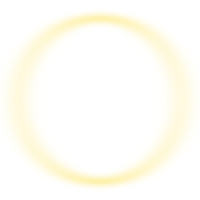
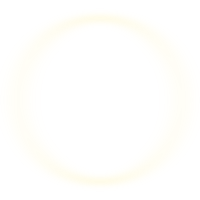
update assets

Changed region(s): [[0.09, 0.63, 0.9, 0.93], [0.09, 0.06, 0.9, 0.36]]

diff --git a/core/src/com/tinybrownmonkey/mamapara/scenes/GameScene.java b/core/src/com/tinybrownmonkey/mamapara/scenes/GameScene.java
@@ -9,11 +9,14 @@ import com.badlogic.gdx.graphics.GL20;
 import com.badlogic.gdx.graphics.OrthographicCamera;
 import com.badlogic.gdx.graphics.Texture;
 import com.badlogic.gdx.graphics.g2d.BitmapFont;
+import com.badlogic.gdx.graphics.g2d.GlyphLayout;
 import com.badlogic.gdx.graphics.g2d.Sprite;
 import com.badlogic.gdx.graphics.g2d.SpriteBatch;
 import com.badlogic.gdx.graphics.g2d.freetype.FreeTypeFontGenerator;
 import com.badlogic.gdx.graphics.glutils.ShapeRenderer;
 import com.badlogic.gdx.math.MathUtils;
+import com.badlogic.gdx.scenes.scene2d.ui.Skin;
+import com.badlogic.gdx.scenes.scene2d.ui.TextButton;
 import com.badlogic.gdx.utils.Align;
 import com.badlogic.gdx.utils.Array;
 import com.badlogic.gdx.utils.viewport.StretchViewport;
@@ -37,6 +40,7 @@ import com.tinybrownmonkey.mamapara.helper.Util;
 
 import java.util.ArrayList;
 import java.util.List;
+import java.util.Random;
 import java.util.Set;
 
 
@@ -68,6 +72,7 @@ public class GameScene implements Screen {
     private List<TimedText> timedTexts;
 
     private static boolean moving = true;
+    private static boolean collission = false;
 
     //scores
     private Scores score;
@@ -153,12 +158,13 @@ public class GameScene implements Screen {
         logo = new Sprite(TextureManager.get("logo.png"));
         float logoX = (GameInfo.WIDTH - logo.getWidth()) / 2;
         logo.setPosition(logoX, logo.getY());
+        float newY = GameInfo.HEIGHT / 2 - (GameInfo.HEIGHT / 11);
         playBttn = new Sprite(TextureManager.get("button_play.png"));
         playBttn.setX((GameInfo.WIDTH - playBttn.getWidth()) / 3);
-        playBttn.setY(GameInfo.HEIGHT / 2 - (GameInfo.HEIGHT / 7));
+        playBttn.setY(newY);
         hsBttn = new Sprite(TextureManager.get("button_highscore.png"));
         hsBttn.setX((GameInfo.WIDTH - playBttn.getWidth()) * 2 / 3);
-        hsBttn.setY(GameInfo.HEIGHT / 2 - (GameInfo.HEIGHT / 7));
+        hsBttn.setY(newY);
     }
 
     @Override
@@ -184,6 +190,7 @@ public class GameScene implements Screen {
 
     @Override
     public void render(float delta) {
+
         mainCamera.update();
         updateComponents(delta);
 
@@ -232,12 +239,12 @@ public class GameScene implements Screen {
                 break;
             case HIGH_SCORE:
                 drawMenu(batch);
-                scoreFont.draw(batch, score.getHighScore() + " m", GameInfo.WIDTH / 2, GameInfo.HEIGHT * 4 / 9,
-                        200, Align.center, false);
+                String highScoreText = score.getHighScore() + " m";
+                scoreFont.draw(batch, highScoreText, GameInfo.WIDTH / 2 - 50, GameInfo.HEIGHT / 2);
                 break;
             case GAME_END:
                 drawGame(batch);
-                scoreFont.draw(batch, "GAME OVER", GameInfo.WIDTH / 2 - 100, GameInfo.HEIGHT  /2 );
+                scoreFont.draw(batch, "GAME OVER", GameInfo.WIDTH / 2 - 50, GameInfo.HEIGHT  /2 );
                 break;
             default:
         }
@@ -315,6 +322,7 @@ public class GameScene implements Screen {
             timedTexts.add(tt);
             score.addMoney(money);
         }
+        jeep.getGrabber().update(delta);
         if(jeep.getX() < jeepLoc)
         {
             //jeep.setX(jeep.getX() + (groundSpeed * delta));
@@ -322,12 +330,13 @@ public class GameScene implements Screen {
         }
         else {
             moveBackgrounds(delta);
-            //jeep.getGrabber().setGrabSpeed(grabberSpeed);
-            movePersons(delta);
+            boolean colPerson = movePersons(delta);
             generatePerson(delta);
             //cars
-            moveCars(delta);
+            boolean colCar = moveCars(delta);
             generateCar(delta);
+
+            collission = colPerson || colCar;
         }
         List<TimedText> removable = new ArrayList<TimedText>();
         for(TimedText tt: timedTexts){
@@ -364,7 +373,8 @@ public class GameScene implements Screen {
         }
     }
 
-    private void movePersons(float delta) {
+    private boolean movePersons(float delta) {
+        boolean retVal = false;
         for(MovingObject movingObject: persons){
             if(!jeep.isPassenger(movingObject)) {
                 if (movingObject.getCountdownTime() > 0 && !jeep.isFull() && jeep.grab(movingObject)) {
@@ -383,14 +393,17 @@ public class GameScene implements Screen {
                 movingObject.setSpeedY(bumpY);
                 movingObject.setRotation(bumpRotation);
                 musicManager.playSound(MusicManager.SoundState.HIT_PERSON);
+                retVal = true;
             }
             if (!gameData.timeoutToGameOverBool && collisionOccured) {
                 gameData.timeoutToGameOverBool = true;
             }
         }
+        return retVal;
     }
 
-    private void moveCars(float delta) {
+    private boolean moveCars(float delta) {
+        boolean retVal = false;
         boolean collisionOccured;
         for(MovingObject car:cars)
         {
@@ -400,6 +413,7 @@ public class GameScene implements Screen {
                 car.setSpeedY(carBumpY);
                 car.setRotation(carBumpRotation);
                 musicManager.playSound(MusicManager.SoundState.HIT_CAR);
+                retVal = true;
             }
             if (!gameData.timeoutToGameOverBool && collisionOccured) {
                 gameData.timeoutToGameOverBool = true;
@@ -407,6 +421,7 @@ public class GameScene implements Screen {
             gameData.groundMover.move(car, delta);
 
         }
+        return retVal;
     }
 
     private void removeOffscreenMovingObjects() {
@@ -460,6 +475,16 @@ public class GameScene implements Screen {
         moneyFont.draw(batch, "$ " + score.getMoney(), GameInfo.WIDTH * 1/20, GameInfo.HEIGHT  * 8/10);
         for(TimedText timedText: timedTexts){
             dollarFont.draw(batch, timedText.getText(), timedText.getX(), timedText.getY());
+        }
+
+        if(collission)
+        {
+            System.out.println("Collission print!");
+            shapeRenderer.begin(ShapeRenderer.ShapeType.Filled);
+            shapeRenderer.setColor(Color.WHITE);
+            shapeRenderer.rect(0, 0, GameInfo.WIDTH, GameInfo.HEIGHT);
+            shapeRenderer.end();
+            //collission = false;
         }
 
     }

diff --git a/core/src/com/tinybrownmonkey/mamapara/helper/ObjectGenerator.java b/core/src/com/tinybrownmonkey/mamapara/helper/ObjectGenerator.java
@@ -31,20 +31,36 @@ public class ObjectGenerator {
     private static float personRange = 60;
 
     private static long counter = 0;
-    private static Texture personTx;
+    private static Texture[] personTx;
     private static Texture[] carsTx;
 
+    private static Texture copTx;
+
     public static void loadTextures(){
-        personTx = new Texture("person.png");
+        personTx = new Texture[]{
+                new Texture("person_blue.png"),
+                new Texture("person_red.png"),
+                new Texture("person_green.png"),
+                new Texture("person_white.png")
+        };
+        copTx = new Texture("person_cop.png");
         carsTx = new Texture[]{
-                new Texture("car_beetle_blue.png"),
-                new Texture("car_beetle_green.png"),
-                new Texture("car_beetle_red.png")
+                new Texture("car_sedan_blue.png"),
+                new Texture("car_sedan_green.png"),
+                new Texture("car_sedan_red.png"),
+                new Texture("car_sedan_pink.png"),
+                new Texture("car_sedan_black.png"),
+                new Texture("motorcycle_blue.png"),
+                new Texture("motorcycle_red.png"),
+                new Texture("motorcycle_green.png"),
+                new Texture("jeepney_grey.png")
         };
     }
 
     public static void dispose(){
-        personTx.dispose();
+        for(Texture texture: personTx){
+            texture.dispose();
+        }
         for(Texture texture: carsTx){
             texture.dispose();
         }
@@ -56,7 +72,7 @@ public class ObjectGenerator {
             boolean up = random.nextBoolean();
             float randFloat = random.nextFloat();
             float y = up? (personRangeMax - personRange * randFloat) : (personRangeMin + personRange * randFloat);
-            Person person = new Person(personTx, GameInfo.WIDTH, y);
+            Person person = new Person(personTx[random.nextInt(personTx.length)], GameInfo.WIDTH, y);
             personIntervalCounter = groundSpeed * (personIntervalMin + random.nextFloat() * personIntervalRange);
             person.setSpeedX(speedX);
             person.setSpeedY(speedY);
@@ -77,8 +93,6 @@ public class ObjectGenerator {
     public static Car generateCar(float groundSpeed, float delta) {
         if(carIntervalCounter <= 0)
         {
-            boolean up = random.nextBoolean();
-            float randFloat = random.nextFloat();
             float y = Constants.lanePositions[random.nextInt(Constants.lanePositions.length)];
             Car car = new Car(carsTx[random.nextInt(carsTx.length)], GameInfo.WIDTH, y);
             carIntervalCounter = groundSpeed * (carIntervalMin + random.nextFloat() * carIntervalRange);

diff --git a/core/src/com/tinybrownmonkey/mamapara/actors/Grabber.java b/core/src/com/tinybrownmonkey/mamapara/actors/Grabber.java
@@ -1,9 +1,11 @@
-package com.tinybrownmonkey.mamapara.helper;
+package com.tinybrownmonkey.mamapara.actors;
 
 import com.badlogic.gdx.graphics.Texture;
 import com.badlogic.gdx.graphics.g2d.Sprite;
 import com.badlogic.gdx.math.Circle;
+import com.badlogic.gdx.math.MathUtils;
 import com.tinybrownmonkey.mamapara.actors.MovingObject;
+import com.tinybrownmonkey.mamapara.helper.Util;
 
 /**
  * Created by alaguipo on 16/06/2017.
@@ -66,6 +68,12 @@ public class Grabber extends Sprite{
             return true;
         }
         return false;
+    }
+    float accum = 0;
+    float maxAlpha = 0.7f;
+    public void update(float deltaTime){
+        setAlpha(maxAlpha * MathUtils.cos(accum));
+        accum = accum + deltaTime / 2;
     }
 
     public boolean reachCenter(MovingObject obj, float deltaTime){

diff --git a/core/src/com/tinybrownmonkey/mamapara/info/Constants.java b/core/src/com/tinybrownmonkey/mamapara/info/Constants.java
@@ -10,7 +10,7 @@ public class Constants {
     public final static float topGroundSpeed = 3000;
 
     public final static int changeLaneSpeed = 300;
-    private final static float topLaneY = GameInfo.HEIGHT / 2.28f;
+    private final static float topLaneY = GameInfo.HEIGHT / 2.2f;
     private final static float bottomLaneY = GameInfo.HEIGHT / 10;
     public final static int laneCount = 5;
     public final static float[] lanePositions = new float[laneCount] ;

diff --git a/core/src/com/tinybrownmonkey/mamapara/actors/Jeepney.java b/core/src/com/tinybrownmonkey/mamapara/actors/Jeepney.java
@@ -4,7 +4,6 @@ import com.badlogic.gdx.graphics.Texture;
 import com.badlogic.gdx.graphics.g2d.Sprite;
 import com.badlogic.gdx.math.MathUtils;
 import com.badlogic.gdx.physics.box2d.Box2DDebugRenderer;
-import com.tinybrownmonkey.mamapara.helper.Grabber;
 
 import java.util.HashSet;
 import java.util.Set;
